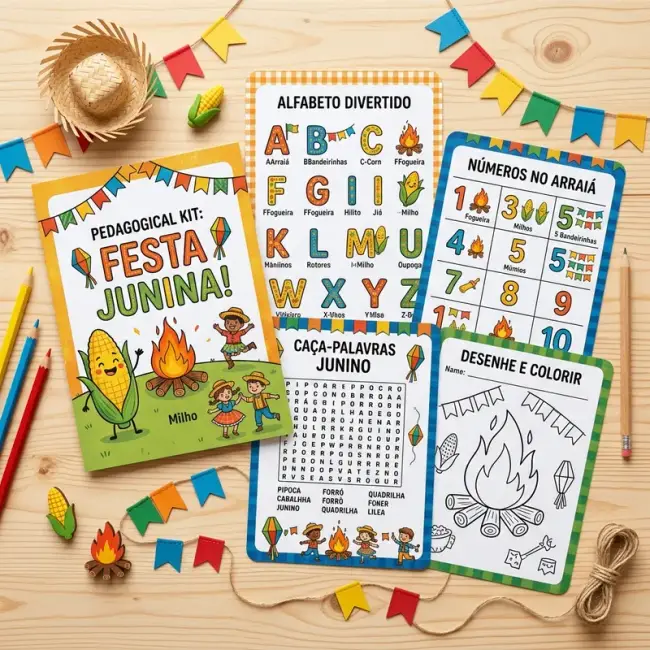
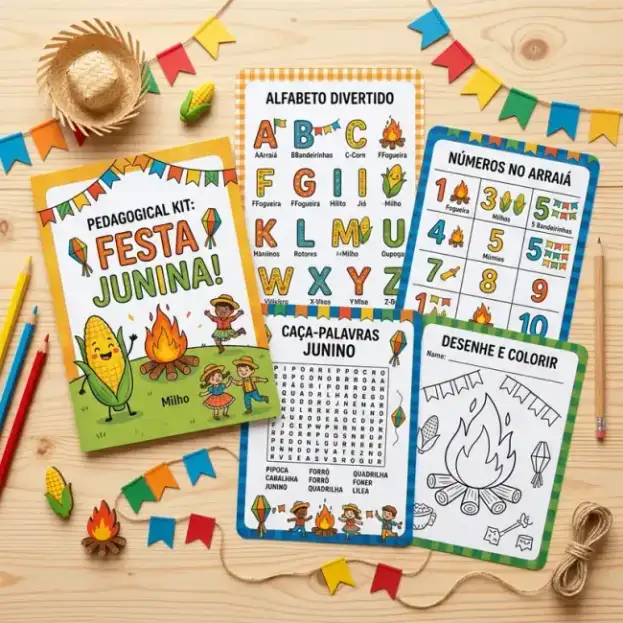
Ultra-optimize PageSpeed: Perfect image size (623px) and update HTML dimensions

diff --git a/index.html b/index.html
@@ -689,7 +689,7 @@ a {
                 <a href="#oferta" class="btn btn-primary lg pulse-btn">Quero Garantir Meu Kit Agora</a>
             </div>
             <div class="hero-mockup fade-in-delay-2">
-                <img src="kit_mockup.webp" alt="Kit Festa Junina Pedagógico Mockup" class="mockup-img" width="800" height="600" fetchpriority="high">
+                <img src="kit_mockup.webp" alt="Kit Festa Junina Pedagógico Mockup" class="mockup-img" width="623" height="467" fetchpriority="high">
             </div>
         </div>
     </header>
